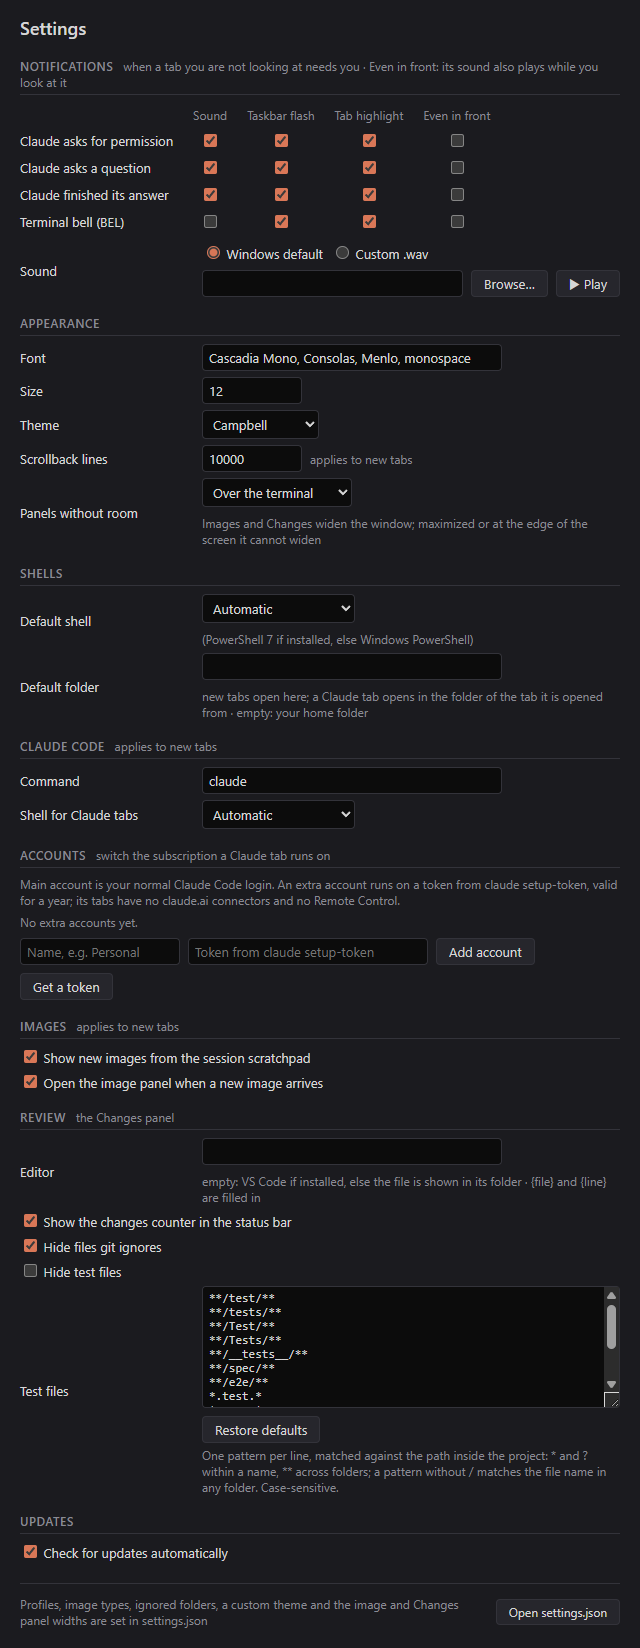
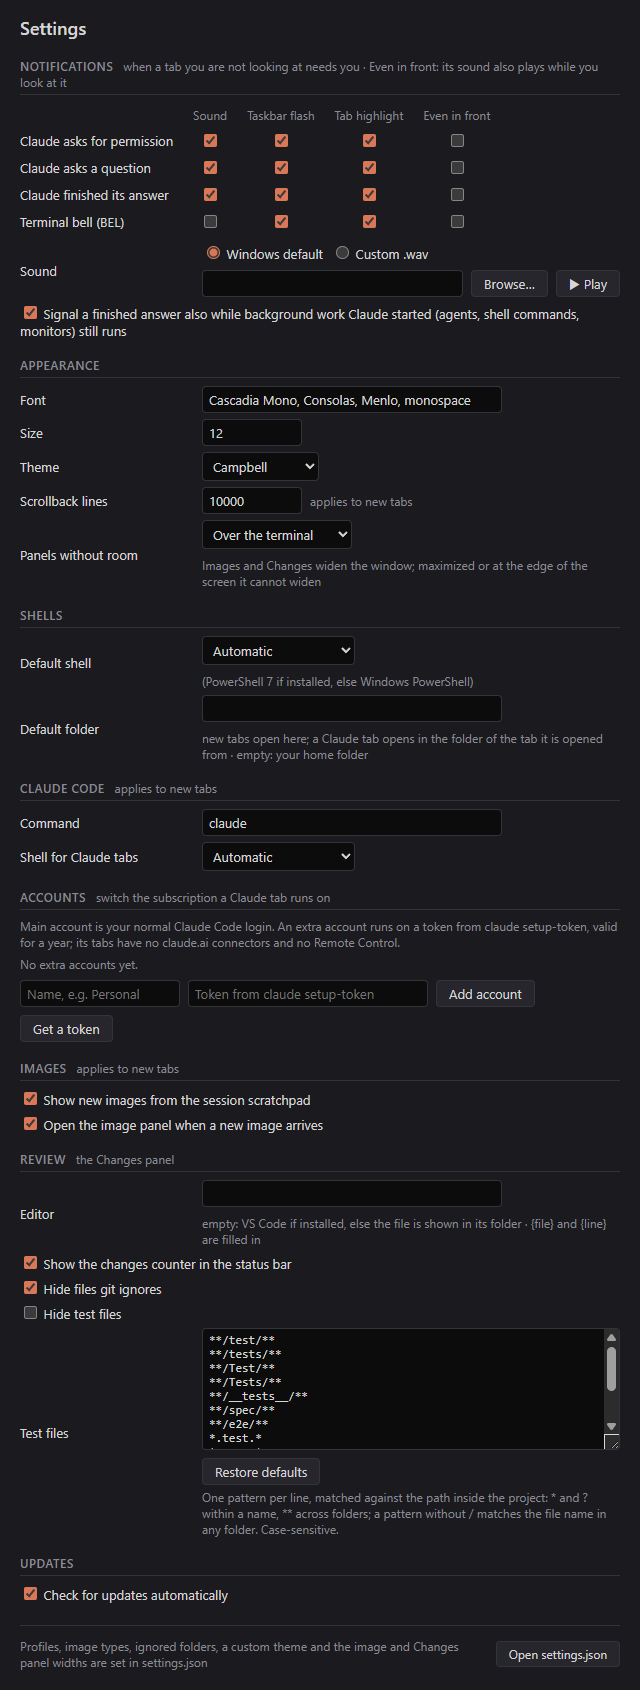
feat: a turn that ends while background work still runs can give no signal
Claude often ends a turn while subagents, background shell commands or monitors it started still run, and
starts another turn each time one of them ends. Every such turn gave the full "finished its answer" signals,
so a session waiting on its background work sounded, pulsed and flashed many times before its real answer.

Claude Code's Stop hook lists that work in background_tasks. The hook passes it on as background on the done
message, and with notifications.doneWithBackgroundWork off (Settings > Notifications) such a turn gives no
signal at all, Even in front included; the turn after which nothing runs in the background is signalled as
before. The setting is on by default, so nothing changes until it is cleared. Scheduled wakeups
(session_crons) do not count: each /loop tick is still signalled. A Claude Code without background_tasks gets
every turn signalled.

diff --git a/tests/unit/settings.test.ts b/tests/unit/settings.test.ts
@@ -29,6 +29,14 @@ describe('parseSettings', () => {
     expect([n.permission.front, n.question.front, n.done.front, n.bell.front]).toEqual([false, false, true, false])
   })
 
+  it('notifications.doneWithBackgroundWork is on unless turned off, and a value that is not a boolean falls back with a notice', () => {
+    expect(DEFAULT_SETTINGS.notifications.doneWithBackgroundWork).toBe(true)
+    expect(parseSettings(JSON.stringify({ notifications: { doneWithBackgroundWork: false } })).settings.notifications.doneWithBackgroundWork).toBe(false)
+    const r = parseSettings(JSON.stringify({ notifications: { doneWithBackgroundWork: 'no' } }))
+    expect(r.settings.notifications.doneWithBackgroundWork).toBe(true)
+    expect(r.errors).toEqual(['settings.json: invalid value for "notifications.doneWithBackgroundWork", using default'])
+  })
+
   it('reports invalid JSON and falls back to defaults', () => {
     const r = parseSettings('{ "font": ')
     expect(r.settings).toEqual(DEFAULT_SETTINGS)
@@ -49,6 +57,7 @@ describe('parseSettings', () => {
   it('notifications: defaults are the old behaviour, the bell rings no sound', () => {
     expect(DEFAULT_SETTINGS.notifications).toEqual({
       sound: 'system',
+      doneWithBackgroundWork: true,
       permission: { sound: true, flash: true, tab: true, front: false },
       question: { sound: true, flash: true, tab: true, front: false },
       done: { sound: true, flash: true, tab: true, front: false },
@@ -79,6 +88,7 @@ describe('parseSettings', () => {
     expect(off.errors).toEqual([])
     expect(off.settings.notifications).toEqual({
       sound: 'system',
+      doneWithBackgroundWork: true,
       permission: { sound: false, flash: false, tab: true, front: false },
       question: { sound: false, flash: false, tab: true, front: false },
       done: { sound: false, flash: false, tab: true, front: false },
@@ -234,6 +244,7 @@ describe('applySettingEdit', () => {
     expect(out.scrollback).toBe(5)
     expect(out.notifications).toEqual({
       sound: 'system',
+      doneWithBackgroundWork: true,
       permission: { sound: false, flash: false, tab: true, front: false },
       question: { sound: false, flash: false, tab: true, front: false },
       done: { sound: false, flash: false, tab: false, front: false },

diff --git a/tests/unit/session-hook.test.ts b/tests/unit/session-hook.test.ts
@@ -61,6 +61,25 @@ describe('runSessionHook: other hook events', () => {
     expect(send).toHaveBeenNthCalledWith(3, '\\\\.\\pipe\\x', attention('done'))
   })
 
+  it('marks a Stop with background work still in flight; an empty or missing background_tasks leaves it a plain done', async () => {
+    const send = vi.fn(async () => ({ ok: true as const }))
+    const task = { id: 'bmv6531d6', type: 'shell', status: 'running', description: 'build', command: 'make' }
+    await runSessionHook(JSON.stringify({ session_id: SID, hook_event_name: 'Stop', stop_hook_active: false, background_tasks: [task], session_crons: [] }), ENV, send)
+    await runSessionHook(JSON.stringify({ session_id: SID, hook_event_name: 'Stop', stop_hook_active: false, background_tasks: [], session_crons: [] }), ENV, send)
+    await runSessionHook(JSON.stringify({ session_id: SID, hook_event_name: 'Stop', stop_hook_active: false }), ENV, send)
+    const done = { v: 1, type: 'attention', tabId: TAB, sessionId: SID, reason: 'done' }
+    expect(send).toHaveBeenNthCalledWith(1, '\\\\.\\pipe\\x', { ...done, background: true })
+    expect(send).toHaveBeenNthCalledWith(2, '\\\\.\\pipe\\x', done)
+    expect(send).toHaveBeenNthCalledWith(3, '\\\\.\\pipe\\x', done)
+  })
+
+  it('a scheduled wakeup alone is no background work', async () => {
+    const send = vi.fn(async () => ({ ok: true as const }))
+    const cron = { id: 'c1', schedule: '*/5 * * * *', recurring: true, prompt: '/loop check' }
+    await runSessionHook(JSON.stringify({ session_id: SID, hook_event_name: 'Stop', stop_hook_active: false, background_tasks: [], session_crons: [cron] }), ENV, send)
+    expect(send).toHaveBeenCalledWith('\\\\.\\pipe\\x', { v: 1, type: 'attention', tabId: TAB, sessionId: SID, reason: 'done' })
+  })
+
   it('ignores notifications and other tools', async () => {
     const send = vi.fn()
     expect(await runSessionHook(JSON.stringify({ session_id: SID, hook_event_name: 'Notification', notification_type: 'permission_prompt' }), ENV, send)).toBe(false)

diff --git a/tests/e2e/settings.spec.ts b/tests/e2e/settings.spec.ts
@@ -166,6 +166,25 @@ test('a notification checkbox saves to settings.json and the case follows it', a
   await app.close()
 })
 
+test('cleared, the background work checkbox leaves a turn that ends with background work unmarked; the turn after it is marked', async () => {
+  const { app, page, tabId, work, pipeName, dataDir } = await launchClaudeTab(QUIET)
+  await page.evaluate((cwd) => window.ct.openTab({ kind: 'shell', cwd }), work)
+  await page.waitForFunction((id) => window.__ct!.tabIds().length === 2 && window.__ct!.activeTabId() !== id, tabId)
+  const win = await openSettings(app, page)
+  const box = win.locator('[data-key="notifications.doneWithBackgroundWork"]')
+  await expect(box).toBeChecked()
+  await box.uncheck()
+  await expect.poll(() => readSettings(dataDir).notifications?.doneWithBackgroundWork).toBe(false)
+  const claudeTab = page.locator(`[data-tab-id="${tabId}"]`)
+  expect(await sendPipeMessage(pipeName, { v: 1, type: 'attention', tabId, sessionId: SID, reason: 'done', background: true })).toEqual({ ok: true })
+  // the mark would arrive right after the pipe answer; give it time to show up if it were sent
+  await page.waitForTimeout(300)
+  await expect(claudeTab).not.toHaveClass(/\battention\b/)
+  expect(await sendPipeMessage(pipeName, { v: 1, type: 'attention', tabId, sessionId: SID, reason: 'done' })).toEqual({ ok: true })
+  await expect(claudeTab).toHaveClass(/\battention\b/)
+  await app.close()
+})
+
 test('quick clicks all reach the file', async () => {
   const { app, page, dataDir } = await launchApp({ settings: QUIET })
   await page.waitForFunction(() => window.__ct!.activeTabId() !== null)

diff --git a/src/main/attention.ts b/src/main/attention.ts
@@ -16,17 +16,22 @@ export interface AttentionDeps {
   now?(): number
 }
 
-/** Tells the user that a tab needs them, with the signals set for the case; while they look at it, only the sound of a case set to Even in front. */
+/**
+ * Tells the user that a tab needs them, with the signals set for the case; while they look at it, only the sound of a case
+ * set to Even in front. A turn that ends with background work still running gives none when doneWithBackgroundWork is off.
+ */
 export class Attention {
   private readonly lastSound = new Map<string, number>()
 
   constructor(private readonly d: AttentionDeps) {}
 
-  /** Returns true when any signal was given. */
-  notify(tabId: string, reason: NotificationCase): boolean {
+  /** backgroundWork: the turn ended while background work Claude started still runs. Returns true when any signal was given. */
+  notify(tabId: string, reason: NotificationCase, backgroundWork = false): boolean {
+    const s = this.d.settings()
+    // Claude goes on once that work ends, and the turn after which nothing runs is signalled
+    if (backgroundWork && !s.doneWithBackgroundWork) return false
     const focused = this.d.windowFocused()
     const active = this.d.activeTabId() === tabId
-    const s = this.d.settings()
     const c = s[reason]
     // in front of the user only the sound can say anything, and only for a case set to Even in front
     if (focused && active && !c.front) return false

diff --git a/src/shared/protocol.ts b/src/shared/protocol.ts
@@ -64,6 +64,8 @@ export interface AttentionMessage {
   reason: AttentionReason
   /** the subagent whose dialog it is; absent for the main conversation */
   agentId?: string
+  /** done only: the turn ended while background work Claude started still runs, and Claude goes on when it ends */
+  background?: true
 }
 
 /** Claude Code took a prompt (UserPromptSubmit): a turn starts. */
@@ -225,7 +227,8 @@ export function parsePipeMessage(line: string): ParseResult {
     if (m.type === 'attention') {
       if (typeof m.reason !== 'string' || !ATTENTION_REASONS.includes(m.reason)) return { ok: false, error: 'reason must be "permission", "question" or "done"' }
       const agent = typeof m.agentId === 'string' && AGENT_ID_RE.test(m.agentId) ? { agentId: m.agentId } : {}
-      return { ok: true, message: { v: 1, type: 'attention', ...ids, reason: m.reason as AttentionReason, ...agent } }
+      const background = m.reason === 'done' && m.background === true ? { background: true as const } : {}
+      return { ok: true, message: { v: 1, type: 'attention', ...ids, reason: m.reason as AttentionReason, ...agent, ...background } }
     }
     if (m.type === 'subagent') {
       if (m.event !== 'start' && m.event !== 'stop') return { ok: false, error: 'event must be "start" or "stop"' }

diff --git a/tests/unit/attention.test.ts b/tests/unit/attention.test.ts
@@ -73,6 +73,25 @@ describe('Attention', () => {
     expect(calls).toEqual([])
   })
 
+  it('a turn that ends with background work still running is signalled like any other by default', () => {
+    const { a, calls } = setup({ focused: false, active: 't2' })
+    expect(a.notify('t1', 'done', true)).toBe(true)
+    expect(calls).toEqual(['mark:t1:done', 'flash', 'play:system'])
+  })
+
+  it('with doneWithBackgroundWork off, such a turn gives no signal, even in front, while the turn after it does', () => {
+    const { a, calls, state } = setup({ focused: false, active: 't2' })
+    state.n.doneWithBackgroundWork = false
+    expect(a.notify('t1', 'done', true)).toBe(false)
+    state.focused = true
+    state.active = 't1'
+    state.n.done.front = true
+    expect(a.notify('t1', 'done', true)).toBe(false)
+    expect(calls).toEqual([])
+    expect(a.notify('t1', 'done')).toBe(true)
+    expect(calls).toEqual(['play:system'])
+  })
+
   it('a case with every signal off gives none and reports it', () => {
     const { a, calls, state } = setup({ focused: false, active: 't2' })
     state.n.permission = { sound: false, flash: false, tab: false, front: false }

diff --git a/src/shared/settings-keys.ts b/src/shared/settings-keys.ts
@@ -15,7 +15,7 @@ export const NUMBER_LIMITS = {
 /** the settings the settings window edits */
 export type SettingKey =
   | `notifications.${NotificationCase}.${keyof NotificationChannels}`
-  | 'notifications.sound'
+  | 'notifications.sound' | 'notifications.doneWithBackgroundWork'
   | 'font.family' | 'font.size' | 'theme' | 'scrollback'
   | 'defaultProfile' | 'defaultFolder' | 'claude.command' | 'claude.shellProfile'
   | 'imageWatch.enabled' | 'imagePanel.autoOpen' | 'autoUpdate'
@@ -26,7 +26,7 @@ export type SettingValue = string | number | boolean | null | string[]
 
 export const SETTING_KEYS: readonly SettingKey[] = [
   ...NOTIFICATION_CASES.flatMap((c) => NOTIFICATION_CHANNELS.map((ch) => `notifications.${c}.${ch}` as const)),
-  'notifications.sound',
+  'notifications.sound', 'notifications.doneWithBackgroundWork',
   'font.family', 'font.size', 'theme', 'scrollback',
   'defaultProfile', 'defaultFolder', 'claude.command', 'claude.shellProfile',
   'imageWatch.enabled', 'imagePanel.autoOpen', 'review.editor', 'review.statusBar', 'review.hideIgnored', 'review.hideTests', 'review.testPatterns', 'review.fileTree', 'sidePanel.noRoom', 'autoUpdate'

diff --git a/src/hook/session-hook.ts b/src/hook/session-hook.ts
@@ -59,10 +59,12 @@ export function hookMessage(input: Obj, tabId: string): PipeMessage | null {
     return path ? { v: 1, type: 'edit_before', tabId, sessionId, toolUseId: input.tool_use_id, path } : null
   }
   const agentId = typeof input.agent_id === 'string' && input.agent_id !== '' ? input.agent_id : null
-  const attention = (reason: AttentionReason): PipeMessage => ({ v: 1, type: 'attention', tabId, sessionId, reason, ...(agentId ? { agentId } : {}) })
+  const attention = (reason: AttentionReason, background = false): PipeMessage =>
+    ({ v: 1, type: 'attention', tabId, sessionId, reason, ...(agentId ? { agentId } : {}), ...(background ? { background: true as const } : {}) })
   if (event === 'PermissionRequest') return attention('permission')
   if (event === 'PreToolUse' && input.tool_name === 'AskUserQuestion') return attention('question')
-  if (event === 'Stop') return attention('done')
+  // background_tasks: the background work still in flight, which wakes the session again when it ends
+  if (event === 'Stop') return attention('done', Array.isArray(input.background_tasks) && input.background_tasks.length > 0)
   return null
 }
 

diff --git a/tests/unit/protocol.test.ts b/tests/unit/protocol.test.ts
@@ -182,6 +182,14 @@ describe('parsePipeMessage: review messages', () => {
     expect(parsePipeMessage(JSON.stringify({ ...m, paths: Array.from({ length: 101 }, () => FILE) })).ok).toBe(false)
   })
 
+  it('keeps background: true on a done and drops it on other reasons or with another value', () => {
+    const done = { ...ids, type: 'attention', reason: 'done' }
+    expect(parsePipeMessage(JSON.stringify({ ...done, background: true }))).toEqual({ ok: true, message: { ...done, background: true } })
+    expect(parsePipeMessage(JSON.stringify({ ...done, background: 'yes' }))).toEqual({ ok: true, message: done })
+    const permission = { ...ids, type: 'attention', reason: 'permission' }
+    expect(parsePipeMessage(JSON.stringify({ ...permission, background: true }))).toEqual({ ok: true, message: permission })
+  })
+
   it('keeps a valid agentId on attention and drops a bad one', () => {
     const a = { ...ids, type: 'attention', reason: 'permission' }
     expect(parsePipeMessage(JSON.stringify({ ...a, agentId: 'a40a10c1d655cf759' }))).toEqual({ ok: true, message: { ...a, agentId: 'a40a10c1d655cf759' } })

diff --git a/src/main/settings.ts b/src/main/settings.ts
@@ -21,6 +21,7 @@ export const DEFAULT_SETTINGS: Settings = {
   imagePanel: { autoOpen: true, width: 320, maxItems: 200 },
   notifications: {
     sound: 'system',
+    doneWithBackgroundWork: true,
     permission: { sound: true, flash: true, tab: true, front: false },
     question: { sound: true, flash: true, tab: true, front: false },
     done: { sound: true, flash: true, tab: true, front: false },
@@ -99,6 +100,7 @@ export function parseSettings(text: string | null): ParsedSettings {
   } else {
     const nt = obj(raw.notifications)
     notifications.sound = take('notifications.sound', nt.sound, isSoundFile, notifications.sound)
+    notifications.doneWithBackgroundWork = take('notifications.doneWithBackgroundWork', nt.doneWithBackgroundWork, isBool, notifications.doneWithBackgroundWork)
     for (const c of NOTIFICATION_CASES) {
       const cv = obj(nt[c])
       for (const ch of NOTIFICATION_CHANNELS) notifications[c][ch] = take(`notifications.${c}.${ch}`, cv[ch], isBool, notifications[c][ch])

diff --git a/src/renderer/settings-page.ts b/src/renderer/settings-page.ts
@@ -210,7 +210,9 @@ root.append(
   el('h1', { className: 'settings-heading', textContent: 'Settings' }),
   banner,
   notice,
-  section('Notifications', 'when a tab you are not looking at needs you · Even in front: its sound also plays while you look at it', notificationTable(), soundField()),
+  section('Notifications', 'when a tab you are not looking at needs you · Even in front: its sound also plays while you look at it', notificationTable(), soundField(),
+    checkboxField('notifications.doneWithBackgroundWork', 'Signal a finished answer also while background work Claude started (agents, shell commands, monitors) still runs',
+      (v) => v.settings.notifications.doneWithBackgroundWork)),
   section('Appearance', null,
     textField('Font', 'font.family', 'text', (v) => v.settings.font.family, checkText),
     textField('Size', 'font.size', 'number', (v) => v.settings.font.size, (t) => checkNumber('font.size', t)),

diff --git a/tests/unit/settings-keys.test.ts b/tests/unit/settings-keys.test.ts
@@ -2,11 +2,12 @@ import { describe, expect, it } from 'vitest'
 import { isSettingKey, isSettingValue, SETTING_KEYS } from '../../src/shared/settings-keys'
 
 describe('settings keys', () => {
-  it('lists the 16 notification cells, the sound and the eighteen plain settings', () => {
-    expect(SETTING_KEYS).toHaveLength(35)
+  it('lists the 16 notification cells, the sound, doneWithBackgroundWork and the eighteen plain settings', () => {
+    expect(SETTING_KEYS).toHaveLength(36)
     expect(SETTING_KEYS).toContain('notifications.bell.tab')
     expect(SETTING_KEYS).toContain('notifications.done.front')
     expect(SETTING_KEYS).toContain('notifications.sound')
+    expect(SETTING_KEYS).toContain('notifications.doneWithBackgroundWork')
     expect(SETTING_KEYS).toContain('defaultFolder')
     expect(SETTING_KEYS).toContain('claude.shellProfile')
     expect(SETTING_KEYS).toContain('review.editor')
